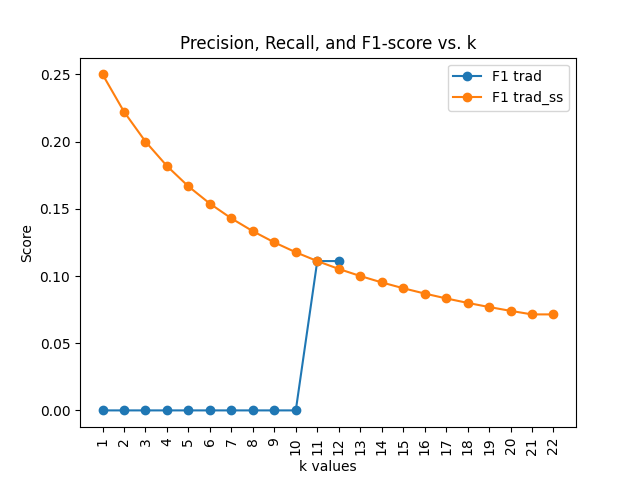
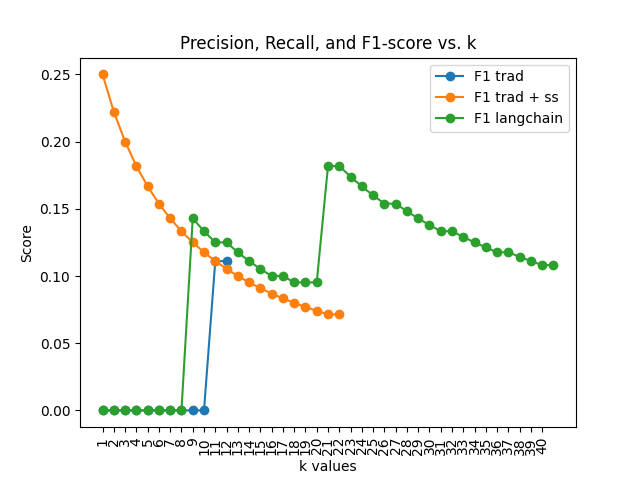
Incorporate RAG Pipeline into code

diff --git a/main.py b/main.py
@@ -25,6 +25,7 @@ stop_words.discard('no')
 sentences,original_text = data.preprocess_medical_history(stop_words)
 log.info(f"Medical History to analyse: {original_text}")
 log.info(f"Lines to analyze: {sentences}")
+lang_data = data.preprocess_langchain_data()
 
 
 log.info('Entering the Model Definition stage')
@@ -35,6 +36,9 @@ log.info(f'The extracted Symptoms using the Traditional method are: {symptoms_tr
 
 symptoms_trad_ss = load_object('checkpoints/trad_ss.pkl')
 log.info(f'The extracted Symptoms using the Traditional and Sentence Similarity method are: {symptoms_trad_ss}')
+
+symptoms_lc = load_object('checkpoints/lang_symptoms.pkl')
+log.info(f'The extracted Symptoms using the LangChain RAG method are: {symptoms_lc}')
 
 log.info('Entering the Evaluation Stage')
 
@@ -50,15 +54,21 @@ visualize.plot_prf(symptoms_trad, precision_trad, recall_trad, f1_score_trad, pl
 precision_trad_ss, recall_trad_ss, f1_score_trad_ss = evaluate.evaluate(y_truth,symptoms_trad_ss)
 visualize.plot_prf(symptoms_trad_ss, precision_trad_ss, recall_trad_ss, f1_score_trad_ss, plot_name = "trad_ss")
 
-# precision_ss, recall_ss, f1_score_ss = evaluate.evaluate(y_truth,symptoms_ss)
-# visualize.plot_prf(symptoms_ss, precision_ss, recall_ss, f1_score_ss, plot_name = "ss")
+precision_lang, recall_lang, f1_score_lang = evaluate.evaluate(y_truth,symptoms_lc)
+visualize.plot_prf(symptoms_lc, precision_lang, recall_lang, f1_score_lang, plot_name = "langchain")
+
+final_symptom_list = [symptoms_trad,symptoms_trad_ss,symptoms_lc]
+precision_values = [precision_trad,precision_trad_ss,precision_lang]
+recall_values = [recall_trad,recall_trad_ss,recall_lang]
+f1_values = [f1_score_trad,f1_score_trad_ss,f1_score_lang]
+model_type = ['trad','trad + ss','langchain']
 
 #Compare Precision
-visualize.compare_metrics(symptoms_trad,symptoms_trad_ss,precision_trad,precision_trad_ss,metric_type="Precision")
+visualize.compare_metrics(final_symptom_list,precision_values,model_type,metric_type="Precision")
 #Compare Recall
-visualize.compare_metrics(symptoms_trad,symptoms_trad_ss,recall_trad,recall_trad_ss,metric_type="Recall")
+visualize.compare_metrics(final_symptom_list,recall_values,model_type,metric_type="Recall")
 #Compare F1 Score
-visualize.compare_metrics(symptoms_trad,symptoms_trad_ss,f1_score_trad,f1_score_trad_ss,metric_type="F1")
+visualize.compare_metrics(final_symptom_list,f1_values,model_type,metric_type="F1")
 
 
 

diff --git a/src/models/model_architectures.py b/src/models/model_architectures.py
@@ -7,6 +7,11 @@ from src.utils import save_object
 from difflib import SequenceMatcher
 import pickle
 
+import getpass
+import os
+from langchain_openai import OpenAIEmbeddings
+from langchain_community.vectorstores import Chroma
+
 class Model:
     def __init__(self) -> None:
         pass
@@ -152,7 +157,6 @@ class Model:
         except Exception as e:
             raise CustomException(e,sys)
         
-
     def ss(self, symptoms, sentences):
         '''
         Defines the the basic sentence similarity model
@@ -179,6 +183,40 @@ class Model:
         except Exception as e:
             raise CustomException(e,sys)
 
+    def langchain(self,data,sentences):
+        os.environ["OPENAI_API_KEY"] = getpass.getpass()
+        embedding = OpenAIEmbeddings()
+        persist_directory = '/Users/mansipandya/Desktop/KnidianMD/docs/chroma'
+
+        # Create the vector store
+        vectordb = Chroma.from_documents(
+            documents=data,
+            embedding=embedding,
+            persist_directory=persist_directory
+        )
+        vectordb.persist()
+        vectordb = None
+        vectordb = Chroma(persist_directory=persist_directory, embedding_function=embedding)
+
+        symptom_list = []
+        k_number=5
+        for sentence in sentences:
+            if sentence == ' ':
+                continue
+            question = f"{sentence}. What symptoms in the database present in this sentence?"
+            docs = vectordb.max_marginal_relevance_search(question,k=k_number, fetch_k=10)
+            for i in range(k_number):
+                text = docs[i].page_content
+                lines = text.split('\n')
+                for line in lines:
+                    if line.startswith('symptom:'):
+                        symptom = line.split(': ', 1)[1]
+                        symptom_list.append(symptom)
+
+        save_object('checkpoints/lang_symptoms.pkl',symptom_list)
+        
+        return symptom_list
+            
 
         
 

diff --git a/src/data_preprocessing/__init__.py b/src/data_preprocessing/__init__.py
@@ -6,20 +6,24 @@ import nltk
 from nltk.corpus import stopwords
 
 def main():
-    log.info('Entering the Data Preprocessing Stage')
-    data = DataPreprocessing()
+    lang_data = DataPreprocessing()
+    data = lang_data.preprocess_langchain_data()
+    print(data[:5])
+    # log.info('Entering the Data Preprocessing Stage')
+    # data = DataPreprocessing()
 
-    symptoms, vocab, itindx = data.preprocess_symptoms()
-    log.info(f'Initialization of symptoms ({len(symptoms)}), vocab ({len(vocab)}) and itindx ({len(itindx)}) complete')
+    # symptoms, vocab, itindx = data.preprocess_symptoms()
+    # log.info(f'Initialization of symptoms ({len(symptoms)}), vocab ({len(vocab)}) and itindx ({len(itindx)}) complete')
 
-    nltk.download('stopwords')
-    stop_words = set(stopwords.words('english'))
-    stop_words.discard('no')
-    sentences,original_text = data.preprocess_medical_history(stop_words)
-    log.info(f"Medical History to analyse: {original_text}")
-    log.info(f"Lines to analyze: {sentences}")
+    # nltk.download('stopwords')
+    # stop_words = set(stopwords.words('english'))
+    # stop_words.discard('no')
+    # sentences,original_text = data.preprocess_medical_history(stop_words)
+    # log.info(f"Medical History to analyse: {original_text}")
+    # log.info(f"Lines to analyze: {sentences}")
 
-    return symptoms, vocab, itindx, sentences, original_text
+
+    # return symptoms, vocab, itindx, sentences, original_text
 
 if __name__ == "__main__":
     main()

diff --git a/src/evaluate/visualize.py b/src/evaluate/visualize.py
@@ -35,21 +35,16 @@ class Visualize():
         except Exception as e:
             raise CustomException(e,sys)
         
-    def compare_metrics(self,symptoms_trad,symptoms_ss,metric1,metric2,metric_type):
+    def compare_metrics(self,sympoms_list,metric_list,model_type,metric_type):
         try:
             log.info(f'Plotting {metric_type} Comparison Graph')
 
             plt.figure()
 
+            for i in range(3):
+                plt.plot(list(range(1, len(sympoms_list[i]) + 2)), metric_list[i], label=f'{metric_type} {model_type[i]}', marker='o')
 
-            plt.plot(list(range(1, len(symptoms_trad) + 2)), metric1, label=f'{metric_type} trad', marker='o')
-            plt.plot(list(range(1, len(symptoms_ss) + 2)), metric2, label=f'{metric_type} trad_ss', marker='o')
-
-            if list(range(1, len(symptoms_trad) + 2))>list(range(1, len(symptoms_ss) + 2)):
-                k_val = list(range(1, len(symptoms_trad) + 2))
-            else:
-                k_val = list(range(1, len(symptoms_ss) + 2))
-            # Adding labels and title
+            k_val = list(range(1, len(max(sympoms_list, key=len)) + 1))
             plt.xlabel('k values')
             plt.ylabel('Score')
             plt.title('Precision, Recall, and F1-score vs. k')

diff --git a/src/models/__init__.py b/src/models/__init__.py
@@ -13,8 +13,9 @@ def main():
     log.info(f'The extracted Symptoms using the Traditional method are: {symptoms_trad}')
     symptoms_trad_ss = model.trad_ss(symptoms, vocab, itindx, sentences)
     log.info(f'The extracted Symptoms using the Traditional and Sentence Similarity method are: {symptoms_trad_ss}')
-    # symptoms_ss = model.ss(symptoms, sentences)
-    # log.info(f'The extracted Symptoms using just the Sentence Similarity method are: {symptoms_ss}')
+    symptoms_ss = model.ss(symptoms, sentences)
+    log.info(f'The extracted Symptoms using just the Sentence Similarity method are: {symptoms_ss}')
+    
 
 if __name__ == "__main__":
     main()

diff --git a/src/data_preprocessing/preprocess_data.py b/src/data_preprocessing/preprocess_data.py
@@ -6,11 +6,24 @@ from data_utils import bsearch,binsert
 
 import pandas as pd
 import re
+from langchain_community.document_loaders.csv_loader import CSVLoader
 
 
 class DataPreprocessing:
     def __init__(self) -> None:
         pass
+
+    def preprocess_langchain_data(self):
+        loader = CSVLoader(
+        file_path="/Users/mansipandya/Desktop/KnidianMD/data/symptoms_db.csv",
+        csv_args={
+            "delimiter": ",",
+            "quotechar": '"',
+            "fieldnames": ["id", "symptom"],
+        },
+        )
+        data = loader.load()
+        return data
 
     def preprocess_symptoms(self):
         '''
